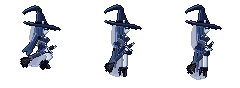
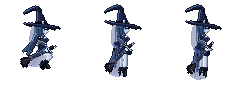
에스카 달리기를 질주로: 상체 22° 숙임(RotSprite 회전), 큰 보폭·발꿈치 차올림, 착지 먼지 (기획서 0.28)
Claude-Session: https://claude.ai/code/session_014QTsqSnFBNjsgiSz2QVxpP

diff --git a/tools/eska_sprite.py b/tools/eska_sprite.py
@@ -2,13 +2,15 @@
 기준: docs/gdd/assets/eska-sheet-v3.png, 앵커 tools/make_eska_prompts.py.
 
 구조
-- 상체·머리·모자는 손으로 찍은 픽셀(행 폭·스탬프)을 그대로 쓰고, 프레임마다 통째로 옮기거나 앞으로 기울인다(LEAN, 엉덩이 높이 기준 전단).
+- 상체·머리·모자는 손으로 찍은 픽셀(행 폭·스탬프)을 그대로 쓰고, 프레임마다 통째로 옮기거나 엉덩이를 축으로 앞으로 숙인다.
+  숙일 때는 RotSprite 방식으로 돌린다 (Scale2x 세 번으로 8배 키워 경계를 살린 뒤 회전하고, 칸 가운데 색을 골라 다시 줄임).
 - 다리·팔·뒷머리·치마·겉치마·베일·검집은 자세 값(관절 위치, 휘날림)으로 프레임마다 계산해 그린다.
 - 빛: 뒤(왼쪽)에서 오는 차가운 역광 → 뒤쪽 가장자리가 밝다. 외곽선은 셀아웃(맞닿은 색을 어둡게).
 좌표: 로컬 (x 오른쪽, y 아래). 대기 자세에서 정수리 y18, 발바닥 y69."""
 import math
 import pathlib
 import sys
+import numpy as np
 from PIL import Image
 
 ROOT = pathlib.Path(__file__).resolve().parent.parent
@@ -45,20 +47,49 @@ C = {
 img = None
 P = None
 BX = BY = 0      # 몸 전체 이동
-LEAN = 0.0       # 상체 기울기 (y 1px 위로 갈 때 x 이동량)
-U = False        # True면 상체 변환(기울기) 적용
+LEAN = 0.0       # 상체를 앞으로 숙인 각도 (도, 엉덩이 PIV_X·PIV 축)
 DY = 0           # 머리 쪽 부품은 2px 위로
+PIV_X = 22.0
 
 
 def ub(x, y):
-    """상체에 붙은 점의 실제 위치 (기울기 반영)."""
-    return (x + (PIV - y) * LEAN, y)
+    """상체에 붙은 점의 실제 위치 (숙임 회전 반영)."""
+    a = math.radians(LEAN)
+    dx, dy = x - PIV_X, y - PIV
+    return (PIV_X + dx * math.cos(a) - dy * math.sin(a), PIV + dx * math.sin(a) + dy * math.cos(a))
+
+
+def scale2x(a):
+    """EPX/Scale2x: 계단 경계를 살려 2배로."""
+    pad = np.pad(a, ((1, 1), (1, 1), (0, 0)), mode="edge")
+    Pm = pad[1:-1, 1:-1]
+    A, B, Cc, D = pad[:-2, 1:-1], pad[1:-1, 2:], pad[1:-1, :-2], pad[2:, 1:-1]
+
+    def eq(x, y):
+        return np.all(x == y, axis=-1)[..., None]
+    e0 = np.where(eq(Cc, A) & ~eq(Cc, D) & ~eq(A, B), A, Pm)
+    e1 = np.where(eq(A, B) & ~eq(A, Cc) & ~eq(B, D), B, Pm)
+    e2 = np.where(eq(D, Cc) & ~eq(D, B) & ~eq(Cc, A), Cc, Pm)
+    e3 = np.where(eq(B, D) & ~eq(B, A) & ~eq(D, Cc), D, Pm)
+    h, w = a.shape[:2]
+    out = np.empty((h * 2, w * 2, 4), dtype=a.dtype)
+    out[0::2, 0::2], out[0::2, 1::2], out[1::2, 0::2], out[1::2, 1::2] = e0, e1, e2, e3
+    return out
+
+
+def rotsprite(layer, deg, pivot):
+    """도트를 깨지지 않게 돌린다. deg 양수 = 시계 방향(앞으로 숙임). pivot = 칸 좌표."""
+    if abs(deg) < 0.01:
+        return layer
+    a = np.array(layer)
+    for _ in range(3):
+        a = scale2x(a)
+    big = Image.fromarray(a).rotate(-deg, resample=Image.NEAREST, center=(pivot[0] * 8 + 4, pivot[1] * 8 + 4))
+    return Image.fromarray(np.array(big)[4::8, 4::8])
 
 
 def px(x, y, c):
     y = y + DY
-    if U:
-        x = x + round((PIV - y) * LEAN)
     x = int(x) + BX + OX
     y = int(y) + BY + OY
     if not (0 <= x < W and 0 <= y < H):
@@ -202,22 +233,11 @@ def lifted(fn):
     return wrap
 
 
-def upper(fn):
-    """상체에 붙은 손그림 부품 — 기울기를 적용해 그린다."""
-    def wrap(*a):
-        global U
-        U = True
-        fn(*a)
-        U = False
-    return wrap
-
-
 def add(p, q, k=1.0):
     return (p[0] + q[0] * k, p[1] + q[1] * k)
 
 
 # ================================================================ 손그림 상체 (기울기 적용)
-@upper
 def torso(_):
     spans({29: (20, 22)}, "skin_d")  # 턱 밑 그늘 (턱선이 목과 분리되어 보이게)
     spans({30: (20, 22)}, "skin_s")
@@ -236,13 +256,11 @@ def torso(_):
         px(22, y, "silver_d")
 
 
-@upper
 def shawl_back(_):
     # 숄의 등 쪽: 뒷머리 밑으로 지나간다
     spans({37: (15, 19), 38: (15, 19), 39: (15, 19)}, "shawl")
 
 
-@upper
 @lifted
 def head(_):
     # 오른쪽을 보는 옆얼굴. 옆머리가 뒤쪽 볼을 가려 얼굴은 작고, 턱선은 실루엣 경계가 귀 쪽으로 대각선.
@@ -267,7 +285,6 @@ def head(_):
         px(x, y, "hair_l")  # 윤기
 
 
-@upper
 @lifted
 def hat(_):
     # 밑동이 넓게 벌어지고 옆선은 오목하게 좁아지며 곧게 솟다가, 위에서 각지게 꺾여 바늘처럼 가는 끝이 뒤로 처진다
@@ -382,7 +399,7 @@ def leg(hip, rel_knee, rel_ankle, foot_deg, far):
     cells = dict(thigh)
     cells.update(shin)
     if far:
-        paint(cells, "skin_d", left="skin_s")
+        paint(cells, "skin_s", left="skin", right="skin_d")  # 먼 쪽 다리: 한 단계 어둡게 (겉치마에 묻히지 않을 만큼)
     else:
         paint(cells, "skin", left="skin_h", right="skin_s")
     boot(knee, ankle, foot_deg, far)
@@ -553,14 +570,27 @@ def pose(**kw):
     return p
 
 
+def layer(fn, p):
+    """손그림 부품을 빈 층에 그려 숙임 각도만큼 돌린 뒤 현재 그림 위에 붙인다."""
+    global img, P
+    base, bp = img, P
+    img = Image.new("RGBA", (W, H), (0, 0, 0, 0))
+    P = img.load()
+    fn(p)
+    lay = rotsprite(img, LEAN, (PIV_X + OX + BX, PIV + OY + BY))
+    img, P = base, bp
+    img.alpha_composite(lay)
+
+
 def render(p):
     global img, P, BX, BY, LEAN
     img = Image.new("RGBA", (W, H), (0, 0, 0, 0))
     P = img.load()
-    BX, BY, LEAN = p["bx"], p["by"], p["lean"]
+    BX, BY = p["bx"], p["by"]
+    LEAN = math.degrees(math.atan(p["lean"])) if p.get("lean_deg") is None else p["lean_deg"]
     veil(p)
     overskirt(p)
-    shawl_back(p)
+    layer(shawl_back, p)
     hair(p)
     nh, fh = NEAR_HIP, FAR_HIP
     if p.get("near_behind"):
@@ -570,10 +600,13 @@ def render(p):
         leg(fh, *p["far"], True)
         leg(nh, *p["near"], False)
     inner_skirt(p)
-    torso(p)
+    layer(torso, p)
     weapon(p)
-    head(p)
-    hat(p)
+
+    def headhat(q):
+        head(q)
+        hat(q)
+    layer(headhat, p)
     near_arm(p)
     outline()
     return img

diff --git a/tools/eska_anim.py b/tools/eska_anim.py
@@ -17,13 +17,15 @@ def lerp(a, b, t):
     return a + (b - a) * t
 
 
-# ---------------------------------------------------------------- 달리기 (8프레임)
-# 다리 역할: 앞다리 F0 착지 → F1 체중 실음 → F2 지나감 → F3 차고 나감 / 뒷다리 B0 뒤로 뻗음 → B1 접어 올림 → B2 밑으로 지나감 → B3 앞으로 뻗음
-F = [((5.0, 8.5), (7.5, 17.0), -15), ((5.0, 8.0), (1.5, 16.5), 0), ((2.5, 9.5), (0.0, 18.5), 0), ((0.0, 9.7), (-5.0, 17.5), 45)]
-B = [((-2.5, 9.5), (-8.5, 15.5), 55), ((-1.0, 9.5), (-8.0, 13.0), 75), ((3.5, 8.5), (-1.5, 14.0), 35), ((7.0, 6.0), (8.0, 14.5), -5)]
-BOB = [1, 2, 1, 0]
-ARM = [((-4.0, 6.0), (-3.0, 12.5)), ((-2.5, 7.0), (-0.5, 13.0)), ((-0.5, 7.5), (2.0, 13.0)), ((1.5, 7.0), (5.0, 12.0)),
-       ((3.0, 6.5), (7.5, 10.5)), ((1.5, 7.0), (5.0, 12.0)), ((-0.5, 7.5), (2.0, 13.0)), ((-2.5, 7.0), (-0.5, 13.0))]
+# ---------------------------------------------------------------- 달리기 (8프레임, 질주)
+# 상체를 22° 숙이고 낮게. 다리 역할: 앞다리 F0 착지 → F1 체중 실음(가장 낮음) → F2 밀어냄 → F3 발끝으로 차고 나감(뒤로 길게)
+# / 뒷다리 B0 발꿈치를 차올림 → B1 엉덩이까지 접음 → B2 무릎을 높이 듦 → B3 앞으로 뻗음
+F = [((5.5, 7.5), (5.0, 16.5), -10), ((5.5, 7.0), (1.0, 15.5), 5), ((2.0, 8.8), (-3.5, 16.5), 25), ((-2.5, 8.8), (-10.0, 14.0), 60)]
+B = [((-3.0, 8.5), (-11.0, 9.0), 85), ((1.0, 8.5), (-7.0, 6.5), 90), ((8.0, 4.0), (2.0, 10.0), 45), ((8.5, 4.5), (11.0, 12.5), -5)]
+BOB = [2, 3, 2, 1]
+# 팔: 팔꿈치를 굽혀 크게 흔듦 (가까운 다리가 앞에 닿을 때 가까운 팔은 뒤로)
+ARM = [((-6.0, 4.0), (-5.5, 10.5)), ((-4.0, 6.0), (-1.5, 11.5)), ((-1.0, 7.0), (3.0, 11.0)), ((2.0, 6.5), (6.5, 8.0)),
+       ((3.5, 5.5), (7.5, 2.5)), ((2.0, 6.5), (6.5, 8.0)), ((-1.0, 7.0), (3.0, 11.0)), ((-4.0, 6.0), (-1.5, 11.5))]
 
 
 def run_frames():
@@ -31,13 +33,13 @@ def run_frames():
     for i in range(8):
         ph = i % 4
         w = math.sin(i / 8 * 2 * math.pi)
+        w2 = math.sin(i / 4 * 2 * math.pi)
         near, far = (F[ph], B[ph]) if i < 4 else (B[ph], F[ph])
         elbow, wrist = ARM[i]
         fr.append(S.pose(
-            by=BOB[ph], lean=0.12, near=near, far=far, elbow=elbow, wrist=wrist,
-            hair=(-3 + w, -1, -7 + 1.5 * w, -5 + w), skirt=(0, -0.5 + 0.5 * w, -1.5, -1 - 0.7 * w),
-            over=(-6 + 1.5 * w, -3 + w), veil=(-3 + w, -1), sword=6 + 4 * math.sin(i / 4 * 2 * math.pi), fringe=-2,
-            near_behind=False))
+            by=BOB[ph], lean_deg=22 + (1 if ph == 1 else 0), near=near, far=far, elbow=elbow, wrist=wrist,
+            hair=(-7 + w, -4, -15 + 2 * w, -11 + 1.5 * w2), skirt=(0.5, -0.8 + 0.5 * w2, -3, -2.5 - 0.8 * w),
+            over=(-13 + 2 * w, -8 + 1.5 * w2), veil=(-8 + w, -3 + w2), sword=18 + 5 * w2, fringe=-4, drip=False))
     return fr
 
 
@@ -77,13 +79,13 @@ DJUMP = {
 
 # ---------------------------------------------------------------- 돌진 대시: 몸을 깊이 숙이고 머리·치마·베일이 뒤로 길게 날림
 DASH = {
-    "dash_start": P(by=2, lean=0.26, near=((6.0, 6.0), (3.0, 14.0), 10), far=((-3.0, 9.0), (-9.0, 15.0), 40),
+    "dash_start": P(by=2, lean_deg=20, near=((6.0, 6.0), (3.0, 14.0), 10), far=((-3.0, 9.0), (-9.0, 15.0), 40),
                     elbow=(-4.0, 4.0), wrist=(-8.0, 7.0), hair=(-6, -3, -12, -8), skirt=(0, -1, -3, -2), over=(-10, -6),
                     veil=(-6, -2), sword=15, fringe=-4),
-    "dash": P(by=3, lean=0.32, near=((7.0, 5.0), (5.0, 13.0), 0), far=((-5.0, 8.0), (-12.0, 12.0), 60),
+    "dash": P(by=4, lean_deg=30, near=((7.0, 5.0), (5.0, 13.0), 0), far=((-5.0, 8.0), (-12.0, 12.0), 60),
               elbow=(-5.0, 3.0), wrist=(-10.0, 5.0), hair=(-8, -6, -18, -14), skirt=(0, -1.5, -4, -3), over=(-16, -12),
               veil=(-9, -4), sword=25, fringe=-5, drip=False),
-    "dash_end": P(by=1, lean=0.15, near=((4.0, 8.0), (2.0, 16.5), 0), far=((-2.0, 9.0), (-6.0, 16.0), 30),
+    "dash_end": P(by=1, lean_deg=12, near=((4.0, 8.0), (2.0, 16.5), 0), far=((-2.0, 9.0), (-6.0, 16.0), 30),
                   elbow=(-1.0, 6.5), wrist=(1.5, 12.5), hair=(-4, -2, -8, -6), skirt=(0, -0.5, -1.5, -1), over=(-6, -3),
                   veil=(-3, -1), sword=8, fringe=-2),
 }
@@ -128,6 +130,19 @@ def magic_circle(rx, ry, alpha, runes=True, sparks=0):
     for k in range(sparks):  # 위로 튀는 빛 알갱이
         t = k * 2.39
         put(cx + math.cos(t) * rx * 0.8, cy - 2 - (k % 3) * 2, ICE if k % 2 else LAV, int(230 * alpha))
+    return im
+
+
+def dust_puff(k):
+    """착지 먼지: 작은 회청색 알갱이 덩어리가 뒤로 퍼지며 옅어진다."""
+    im = Image.new("RGBA", (40, 16), (0, 0, 0, 0))
+    P = im.load()
+    a = int(200 * (1 - k / 3))
+    for j, (x, y) in enumerate(((16, 12), (18, 11), (20, 12), (15, 10), (19, 9), (22, 11), (17, 13), (21, 10))):
+        if j < 4 + 2 * k:
+            xx, yy = x - k * (1 + j % 2), y - k * (j % 3 == 0)
+            if 0 <= xx < 40 and 0 <= yy < 16:
+                P[xx, yy] = (120, 132, 160, a if j % 2 else a // 2)
     return im
 
 
@@ -177,7 +192,16 @@ def build_gifs():
     gy = 30 + S.OY + 69 + 1  # 바닥선 (위 여백 30)
     top = 30
     # 달리기: 제자리 + 바닥 무늬가 흐름
-    compose("run", [(f, 20, top, []) for f in run], (S.W + 40, S.H + top + 8), 85, gy, scroll=5)
+    dust = [dust_puff(k) for k in range(3)]
+    seq = []
+    for i, f in enumerate(run):
+        fx = []
+        for c in (0, 4):  # 발이 닿는 프레임부터 3프레임 동안 먼지가 뒤로 흩어진다
+            k = (i - c) % 8
+            if k < 3:
+                fx.append((dust[k], 20 + S.OX + 22 - 8 - 4 * k, gy - 9))
+        seq.append((f, 20, top, fx))
+    compose("run", seq, (S.W + 40, S.H + top + 8), 65, gy, scroll=9)
     # 점프
     J = [("takeoff", 0), ("rise_a", -10), ("rise_b", -18), ("rise_a", -24), ("apex", -27), ("apex", -28), ("fall_a", -26),
          ("fall_b", -20), ("fall_a", -12), ("fall_b", -3), ("land", 0), ("land", 0), ("idle", 0), ("idle", 0)]

diff --git a/docs/gdd/10-art-direction.md b/docs/gdd/10-art-direction.md
@@ -51,9 +51,9 @@
 - 이미지 생성 프롬프트(디자인 앵커 포함): [`../art/eska-design-prompts.txt`](../art/eska-design-prompts.txt)
 - **디자인 시트 기준안: [`assets/eska-sheet-v3.png`](assets/eska-sheet-v3.png)** — 얀데레풍 외형·빗자루 검까지 반영된 현재 기준
 - 게임 스프라이트 (사이드뷰, 코드로 찍은 도트 — 리그 `tools/eska_sprite.py`, 동작 정의 `tools/eska_anim.py`): 전체 시트 [`../art/eska/sheet.png`](../art/eska/sheet.png) · 이름표 붙은 3배 미리보기 [`../art/eska/sheet_preview.png`](../art/eska/sheet_preview.png) · 움직이는 미리보기 [`run.gif`](../art/eska/run.gif) [`jump.gif`](../art/eska/jump.gif) [`double_jump.gif`](../art/eska/double_jump.gif) [`dash.gif`](../art/eska/dash.gif). [시도 중]
-  - 동작: 대기 1, 달리기 8, 점프 7(이륙·상승 2·정점·하강 2·착지), 이단점프 3(웅크림·마법진 딛기·솟구침, 마법진 효과는 별도 층), 대시 3(시작·돌진·마무리, 잔상은 별도 층). 한 칸 80×88px, 발밑 기준점 칸 좌표 (44, 77).
+  - 동작: 대기 1, 달리기 8(질주: 상체 22° 숙임, 보폭 넓게·뒷발꿈치를 엉덩이까지 차올림·무릎 높이, 머리·베일·겉치마가 거의 수평으로 날림, 착지 먼지), 점프 7(이륙·상승 2·정점·하강 2·착지), 이단점프 3(웅크림·마법진 딛기·솟구침, 마법진 효과는 별도 층), 대시 3(시작·돌진·마무리, 잔상은 별도 층). 한 칸 80×88px, 발밑 기준점 칸 좌표 (44, 77).
   - 몸 52px(정수리~발바닥), 모자 포함 약 74px. 허리 폭 4px의 가는 체형, 각지게 꺾여 가는 끝이 뒤로 처지는 날카로운 모자, 옆머리로 볼을 가린 작은 얼굴. 뒤에서 오는 차가운 역광, 셀아웃 외곽선.
-  - 리그 구조: 상체·머리·모자는 손으로 찍은 픽셀을 통째로 옮기거나 앞으로 기울이고(엉덩이 기준 전단), 다리·팔·뒷머리·치마·겉치마·베일·검집은 관절 위치와 휘날림 값으로 프레임마다 계산한다. 상승 땐 머리카락·치마가 아래로 끌리고, 정점부터 바람 없이 떠오르며, 대시 땐 뒤로 길게 날린다.
+  - 리그 구조: 상체·머리·모자는 손으로 찍은 픽셀을 통째로 옮기거나 엉덩이를 축으로 숙이고(RotSprite 방식 회전 — Scale2x 세 번으로 8배 키워 돌린 뒤 줄여 선이 깨지지 않게, 대시 30°), 다리·팔·뒷머리·치마·겉치마·베일·검집은 관절 위치와 휘날림 값으로 프레임마다 계산한다. 상승 땐 머리카락·치마가 아래로 끌리고, 정점부터 바람 없이 떠오르며, 대시 땐 뒤로 길게 날린다.
 - 디자인 시트 2차: [`assets/eska-sheet-v2.webp`](assets/eska-sheet-v2.webp) — 레이피어 시절 (비교용)
 - 디자인 시트 1차 생성본: [`assets/eska-sheet-v1.webp`](assets/eska-sheet-v1.webp) — 신비감 보완 전 (비교용)
 - **무기 형태 기준: [`assets/concept-witch-weapon-draft.png`](assets/concept-witch-weapon-draft.png)** — 검·검집 형태를 따른다 (색·캐릭터 디자인은 위 확정안을 따름)

diff --git a/docs/gdd/19-appendix.md b/docs/gdd/19-appendix.md
@@ -110,3 +110,4 @@
 | 0.25 | 2026-10-25 | 주인공 얀데레풍 외형 요소 추가 (시도 중) (10, 19장) | |
 | 0.26 | 2026-10-25 | 주인공 게임 스프라이트 첫 시안(사이드뷰 대기, 코드 도트) 추가 (10, 19장) | |
 | 0.27 | 2026-10-25 | 주인공 스프라이트를 리그로 재구성하고 달리기·점프·이단점프(마법진)·대시 프레임 추가 (10, 19장) | |
+| 0.28 | 2026-10-25 | 달리기를 상체를 숙인 질주로 변경, 상체 숙임을 회전(RotSprite)으로, 대시 30° (10, 19장) | |

diff --git a/docs/gdd/README.md b/docs/gdd/README.md
@@ -1,6 +1,6 @@
 # [가제] 다크판타지 2D 사이드뷰 게임 — 게임 기획서(GDD)
 
-> 문서 버전: 0.27 · 작성 시작: 2026-10-25
+> 문서 버전: 0.28 · 작성 시작: 2026-10-25
 > 이 폴더는 업계 표준 GDD 19개 섹션을 **섹션별 파일**로 나눈 것이다. 섹션 단위로 채우고 수정 이력을 git으로 추적한다.
 
 ## 상태 표기 규칙
